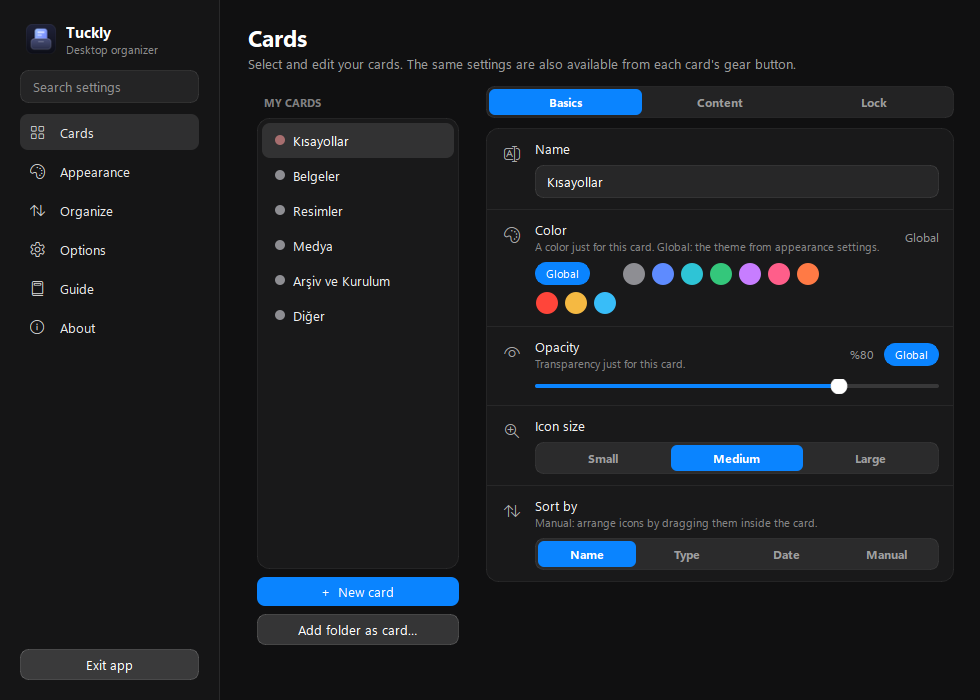
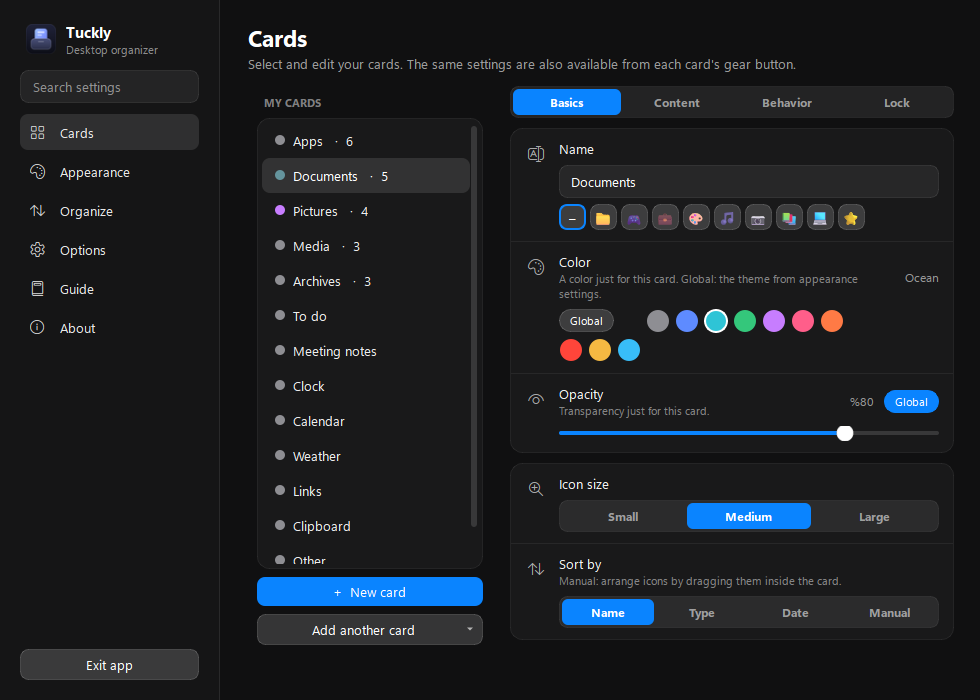
Update the READMEs and screenshots for 0.3.0; fix launcher language and card title counter

diff --git a/tuckly/app.py b/tuckly/app.py
@@ -160,7 +160,7 @@ class FencesApp:
         self.click_watcher.double_clicked.connect(self.toggle_cards)
         self.launcher = Launcher(self)
         self.hotkeys = Hotkeys(qapp, {"H": self.toggle_cards, "N": self.new_card_at_cursor, "T": self.show_panel,
-                                      "F": self.launcher.toggle})
+                                      "F": lambda: self.launcher.toggle()})
         # Tam ekran uygulama ve kart zamanlamaları için görünürlük denetimi
         self._fullscreen_timer = QTimer(interval=2000, timeout=self.check_fullscreen)
         self._schedule_timer = QTimer(interval=30000, timeout=self.refresh_visibility)
@@ -196,6 +196,8 @@ class FencesApp:
         self._sync_widget_colors()
         self.panel = ControlPanel(self)
         self.panel.setGeometry(geo)
+        self.launcher.deleteLater()  # başlatıcının metinleri yeni dilde kurulsun
+        self.launcher = Launcher(self)
         old.hide()
         old.deleteLater()
         self.build_tray_menu()

diff --git a/tuckly/launcher.py b/tuckly/launcher.py
@@ -132,13 +132,13 @@ class Launcher(QWidget):
             self.list.addItem(it)
         if self.list.count():
             self.list.setCurrentRow(0)
-        row = self.list.sizeHintForRow(0) if self.list.count() else 0
-        self.list.setFixedHeight(row * self.list.count())
+        rows = sum(self.list.sizeHintForRow(i) for i in range(self.list.count()))  # simgeli satırlar daha yüksek
+        self.list.setFixedHeight(rows)
         self.list.setVisible(self.list.count() > 0)
         # Pencere içeriği kadar yüksek olur: arama kutusu + sonuçlar + ipucu satırı
         height = 22 + self.edit.sizeHint().height() + 8 + self.hint.sizeHint().height()
         if self.list.count():
-            height += row * self.list.count() + 8
+            height += rows + 8
         self.setFixedSize(self.W, height)
 
     def open_item(self, item):

diff --git a/tuckly/card.py b/tuckly/card.py
@@ -384,7 +384,6 @@ class TitleBar(QWidget):
         if not self.search.isHidden():
             fixed += 26 + sp
         if self.count.text():
-            self.count.adjustSize()
             fixed += self.count.sizeHint().width() + sp
         if not self.lock.isHidden():
             fixed += self.lock.sizeHint().width() + sp

diff --git a/README.tr.md b/README.tr.md
@@ -22,22 +22,74 @@ yalnızca kartında görünür. Tuckly kapanınca masaüstünüz olduğu gibi ge
 
 ## Özellikler
 
+### Kartlar
+
 - **Masaüstü kartları.** Kısayolları, belgeleri ve klasörleri gruplayın. Dosyalar yerinde kalır.
-- **Klasör kartları.** İstediğiniz klasörü kart olarak gösterin.
-- **Dört stil.** Düz, buzlu cam, sıvı cam ve Material; koyu ya da açık mod, hazır ve özel renkler, vurgu
-  rengi, opaklık, doygunluk, parlaklık, köşe yuvarlaklığı ve yazı tipi ayarları.
-- **Otomatik düzenleme.** Her karta kategori seçin (kısayollar, belgeler, resimler, videolar...) ve kartsız
-  tüm masaüstü öğelerini tek tıkla yerleştirin. Geri almak da tek tık.
-- **Kart başına ayar.** Renk, opaklık, simge boyutu, sıralama (ad, tür, tarih, serbest) ve konum, boyut,
-  içerik kilitleri.
-- **Gezgin ile bütünleşme.** Sağ tık menüsünde "Yeni Tuckly kartı" ve "Tuckly kartına ekle".
-- **Bildirim rozetleri.** İsteğe bağlı olarak, bekleyen bildirimi olan uygulamaların kısayolunda sayı.
-- **Altı dil.** Türkçe, İngilizce, Almanca, İspanyolca, Fransızca ve Rusça.
-- **Rehber turu** ilk açılışta, ayrıca uygulama içinde bir rehber.
+- **İçinde gezilen klasör kartları.** İstediğiniz klasörü kart olarak gösterin; alt klasöre çift tıklayarak
+  içine girin, geri düğmesi ve yol çubuğuyla dönün.
+- **Sekmeli kartlar.** Birkaç kartı aynı yerde birleştirin, sekmelerle aralarında geçin.
+- **Üzerine gelince açılma.** Kart yalnızca başlık olarak durur, fare üzerine gelince açılır.
+- **Zamanlama.** Kartı yalnızca seçtiğiniz gün ve saatlerde gösterin.
+- **Son kullanılanlar kartı.** Windows'ta en son açtığınız dosyaları listeler.
+- **Şablonlar.** İş, Oyun, Tasarım ve Öğrenci setleri hazır kartları tek tıkla ekler.
+
+### Notlar
+
+![Not kartları](docs/screenshots/notes.png)
+
+- **Not kartları:** yapılacak maddeleri ve tamamlanan/toplam sayacı, madde işaretleri, başlık, kalın, italik
+  ve üstü çizili yazı.
+- **Yapışkan not kâğıt renkleri**, yazı boyutu ve satır kaydırma; her not için ayrı.
+- **Bağlantılar** notta vurgulanır ve Ctrl+tıklama ile açılır.
+- **Hatırlatıcı.** Bir zaman seçin; Windows bildirimi çıkar ve not öne gelir.
+- **Dışa aktarma.** Notu kopyalayın ya da `.txt` veya Markdown olarak kaydedin.
+
+### Saat, takvim, hava durumu ve diğerleri
+
+![Saat, hava durumu, takvim ve pano kartları](docs/screenshots/widgets.png)
+
+- **Saat ve takvim kartları.**
+- **Hava durumu kartı:** yazdığınız şehir için anlık durum ve üç günlük tahmin.
+- **Pano kartı:** son kopyaladığınız 20 metni tutar; tıklayınca yeniden kopyalar.
+- **Web bağlantıları kartı:** site simgeleriyle; adresi tarayıcıdan kartın üzerine sürükleyin.
+
+### Bulma ve düzenleme
+
+![Hızlı başlatıcı](docs/screenshots/launcher.png)
+
+- **Hızlı başlatıcı.** Ctrl+Alt+F'ye basın, bir ad yazın, Enter'a basın. Tüm kartları, notlarınızı ve web
+  bağlantılarınızı arar.
+- **Kart içinde arama:** kalabalık kartların başlığındaki büyüteçle.
+- **Otomatik düzenleme.** Her karta kategori (kısayollar, belgeler, resimler, videolar...) ya da öğe adında
+  geçmesi gereken sözcükler seçin ve kartsız tüm masaüstü öğelerini tek tıkla yerleştirin. Geri almak da tek tık.
+- **Hepsini gizleme.** Masaüstünde boş bir yere çift tıklayın ya da Ctrl+Alt+H'ye basın: tüm kartlar gizlenir,
+  aynı işlemle geri gelir. Tam ekran bir uygulama çalışırken kartlar kendiliğinden de gizlenebilir.
+- **Yapıştırma ve çoklu seçim.** Taşınan kart ekran kenarına ve diğer kartlara hizalanır. Birkaç kartın
+  başlığına Ctrl+tıklayarak onları birlikte taşıyın, hizalayın ya da aynı boyuta getirin.
+- **Düzenler.** Tüm kartların yerini, boyutunu ve içeriğini bir adla kaydedip sonra geri yükleyin. Kart
+  yerleri monitör düzenine göre de hatırlanır.
+
+### Görünüm
+
+- **Dört stil.** Düz, buzlu cam, sıvı cam ve Material; koyu ya da açık mod, hazır ve özel renkler, opaklık,
+  doygunluk, parlaklık, köşe yuvarlaklığı ve yazı tipi ayarları.
+- **Vurgu rengi:** temadan, Windows'tan, duvar kâğıdınızdan ya da kendi seçtiğiniz renk.
+- **Kart başına ayar.** Renk, opaklık, simge boyutu, başlık simgesi, sıralama (ad, tür, tarih, serbest) ve
+  konum, boyut, içerik kilitleri.
 
 | Kartlar | Kart ayarları |
 | --- | --- |
 | ![Kartlar sayfası](docs/screenshots/cards.png) | ![Kart ayarları](docs/screenshots/card-settings.png) |
+
+![Seçenekler](docs/screenshots/options.png)
+
+### Diğer her şey
+
+- **Gezgin ile bütünleşme.** Sağ tık menüsünde "Yeni Tuckly kartı" ve "Tuckly kartına ekle".
+- **Bildirim rozetleri.** İsteğe bağlı olarak, bekleyen bildirimi olan uygulamaların kısayolunda sayı.
+- **Ayarları dışa aktarma, içe aktarma ve sıfırlama**, güncelleme denetimi, kurulum ve kaldırma.
+- **Altı dil.** Türkçe, İngilizce, Almanca, İspanyolca, Fransızca ve Rusça.
+- **Rehber turu** ilk açılışta, ayrıca uygulama içinde bir rehber.
 
 ## Kurulum
 
@@ -62,6 +114,12 @@ dokunulmaz.
 | Tek bir kartı ayarlamak | Karttaki dişli düğmesine tıklayın |
 | Genel görünümü değiştirmek | Kontrol paneli > **Görünüm** |
 | Tüm masaüstünü düzenlemek | Kartlara kategori verin, sonra Kontrol paneli > **Düzenle** |
+| Not, saat, hava durumu ya da başka bir kart eklemek | Kontrol paneli > Kartlar > **Başka kart ekle** |
+| Herhangi bir şeyi bulup açmak | **Ctrl+Alt+F**'ye basın, yazın, Enter'a basın |
+| Tüm kartları gizlemek ya da göstermek | Masaüstünde boş bir yere çift tıklayın ya da **Ctrl+Alt+H**'ye basın |
+| Kartları sekmelerde birleştirmek | Karttaki dişli > **Davranış** > **Sekmeler**, sonra kartları seçin |
+| Birkaç kartı seçmek | Başlıklarına Ctrl+tıklayın; hizalamak ya da boyutlandırmak için bir başlığa sağ tıklayın |
+| Geçerli düzeni kaydetmek | Kontrol paneli > Seçenekler > **Düzenler** |
 | Kontrol panelini açmak | Bildirim alanındaki Tuckly simgesine tıklayın |
 
 Aynı rehber uygulamanın içinde **Rehber** sayfasında da vardır; tur oradan yeniden başlatılabilir.
@@ -77,6 +135,14 @@ Aynı rehber uygulamanın içinde **Rehber** sayfasında da vardır; tur oradan 
 - **Windows 11 sağ tık menüsü.** Tuckly girdileri klasik menüdedir: **Daha fazla seçenek göster** altında.
 - **Bildirim rozetleri** uygulamanın kendi okunmamış sayısını değil, bildirim merkezinde bekleyen
   bildirimleri sayar ve kısayollarla ada göre eşleştirilir.
+
+- **İnternet kullanımı.** Tuckly internete yalnızca şunlar için bağlanır: güncelleme denetimi (GitHub),
+  hava durumu kartı (Open-Meteo; yalnızca yazdığınız şehrin adı ve koordinatı gönderilir) ve web bağlantıları
+  kartı (eklediğiniz her sitenin simgesi o siteden indirilir). Hava durumu ya da bağlantı kartınız yoksa
+  yalnızca güncelleme denetimi çalışır; o da kapatılabilir.
+- **Pano kartı.** Geçmiş yalnızca bellekte tutulur. Diske hiç yazılmaz ve Tuckly kapanınca silinir.
+- **Genel kısayollar:** Ctrl+Alt+F (başlatıcı), Ctrl+Alt+H (gizle ya da göster), Ctrl+Alt+N (yeni kart) ve
+  Ctrl+Alt+T (ayarlar). Başka bir programın kullandığı kısayol atlanır.
 
 ## Kaynak koddan çalıştırma
 

diff --git a/README.md b/README.md
@@ -22,22 +22,73 @@ When Tuckly quits, your desktop is exactly as it was.
 
 ## Features
 
+### Cards
+
 - **Cards for your desktop.** Group shortcuts, documents and folders. Files stay where they are.
-- **Folder cards.** Show any folder as a card.
+- **Folder cards you can browse.** Show any folder as a card; double-click a subfolder to step into it, with
+  a back button and a path bar.
+- **Tabbed cards.** Combine several cards in one place and switch between them with tabs.
+- **Open on hover.** A card can stay as a title only and open when the pointer is over it.
+- **Schedules.** Show a card only on the days and hours you choose.
+- **Recent files card.** Lists the files you opened most recently in Windows.
+- **Templates.** Work, Gaming, Design and Student sets add ready-made cards in one click.
+
+### Notes
+
+![Note cards](docs/screenshots/notes.png)
+
+- **Note cards** with to-do items and a done/total counter, bullets, headings, bold, italic and strikethrough.
+- **Sticky-note paper colors**, text size and word wrap, set per note.
+- **Links** in a note are highlighted and open with Ctrl+click.
+- **Reminders.** Pick a time; a Windows notification appears and the note comes to the front.
+- **Export.** Copy a note or save it as `.txt` or Markdown.
+
+### Clock, calendar, weather and more
+
+![Clock, weather, calendar and clipboard cards](docs/screenshots/widgets.png)
+
+- **Clock and calendar cards.**
+- **Weather card** for a city you enter, with a three-day forecast.
+- **Clipboard card** that keeps the last 20 texts you copied; click one to copy it again.
+- **Web links card** with site icons; drag an address from the browser onto it.
+
+### Finding and arranging
+
+![Quick launcher](docs/screenshots/launcher.png)
+
+- **Quick launcher.** Press Ctrl+Alt+F, type a name and press Enter. It searches every card, your notes and
+  your web links.
+- **Search inside a card** from the magnifier in the title of crowded cards.
+- **Automatic organizing.** Pick categories per card (shortcuts, documents, images, video...) or words that
+  item names must contain, and place every loose desktop item with one click. Undo is one click too.
+- **Hide everything.** Double-click an empty spot on the desktop or press Ctrl+Alt+H to hide all cards; the
+  same action brings them back. Cards can also hide by themselves while a full-screen app is running.
+- **Snapping and multi-select.** Moving cards snap to screen edges and to each other. Ctrl+click several card
+  titles to move them together, align them or give them the same size.
+- **Layouts.** Save the position, size and content of all cards under a name and restore them later. Card
+  positions are also remembered per monitor setup.
+
+### Look and feel
+
 - **Four styles.** Flat, frosted glass, liquid glass and Material, in dark or light mode, with preset and
-  custom colors, accent color, opacity, saturation, brightness, corner radius and fonts.
-- **Automatic organizing.** Pick categories per card (shortcuts, documents, images, video...) and place every
-  loose desktop item with one click. Undo is one click too.
-- **Per-card control.** Color, opacity, icon size, sort order (name, type, date, manual) and locks for
-  position, size and content.
-- **Explorer integration.** "New Tuckly card" and "Add to Tuckly card" in the right-click menu.
-- **Notification badges.** Optional count on app shortcuts that have notifications waiting.
-- **Six languages.** Turkish, English, German, Spanish, French and Russian.
-- **Guided tour** on first run, and a built-in guide.
+  custom colors, opacity, saturation, brightness, corner radius and fonts.
+- **Accent color** from the theme, from Windows, from your wallpaper, or your own.
+- **Per-card control.** Color, opacity, icon size, title emoji, sort order (name, type, date, manual) and
+  locks for position, size and content.
 
 | Cards | Card settings |
 | --- | --- |
 | ![Cards page](docs/screenshots/cards.png) | ![Card settings](docs/screenshots/card-settings.png) |
+
+![Options](docs/screenshots/options.png)
+
+### Everything else
+
+- **Explorer integration.** "New Tuckly card" and "Add to Tuckly card" in the right-click menu.
+- **Notification badges.** Optional count on app shortcuts that have notifications waiting.
+- **Settings export, import and reset**, update check, installer and uninstaller.
+- **Six languages.** Turkish, English, German, Spanish, French and Russian.
+- **Guided tour** on first run, and a built-in guide.
 
 ## Install
 
@@ -61,6 +112,12 @@ hidden desktop icons are restored first and your files are not touched.
 | Change one card | Click the gear on the card |
 | Change how everything looks | Control panel > **Appearance** |
 | Tidy the whole desktop | Give cards categories, then Control panel > **Organize** |
+| Add a note, clock, weather or other card | Control panel > Cards > **Add another card** |
+| Find and open anything | Press **Ctrl+Alt+F**, type, press Enter |
+| Hide or show all cards | Double-click an empty spot on the desktop, or press **Ctrl+Alt+H** |
+| Combine cards into tabs | Card gear > **Behavior** > **Tabs**, then select the cards |
+| Select several cards | Ctrl+click their titles; right-click a title to align or resize |
+| Save the current arrangement | Control panel > Options > **Layouts** |
 | Open the control panel | Click the Tuckly icon in the notification area |
 
 The same guide is available inside the app under **Guide**, together with a tour you can replay.
@@ -75,6 +132,15 @@ The same guide is available inside the app under **Guide**, together with a tour
 - **Windows 11 right-click menu.** The Tuckly entries are in the classic menu, under **Show more options**.
 - **Notification badges** count notifications waiting in the notification center, not an app's own unread
   count, and are matched to shortcuts by name.
+
+- **Network use.** Tuckly connects to the internet only for these: the update check (GitHub), a weather card
+  (Open-Meteo; only the city name you typed and its coordinates are sent) and a web links card (the icon of
+  each site you add is downloaded from that site). Without a weather or links card, only the update check
+  runs, and it can be turned off.
+- **Clipboard card.** The history is kept in memory only. It is never written to disk and is erased when
+  Tuckly closes.
+- **Global shortcuts** are Ctrl+Alt+F (launcher), Ctrl+Alt+H (hide or show), Ctrl+Alt+N (new card) and
+  Ctrl+Alt+T (settings). A shortcut already taken by another program is skipped.
 
 ## Run from source
 
